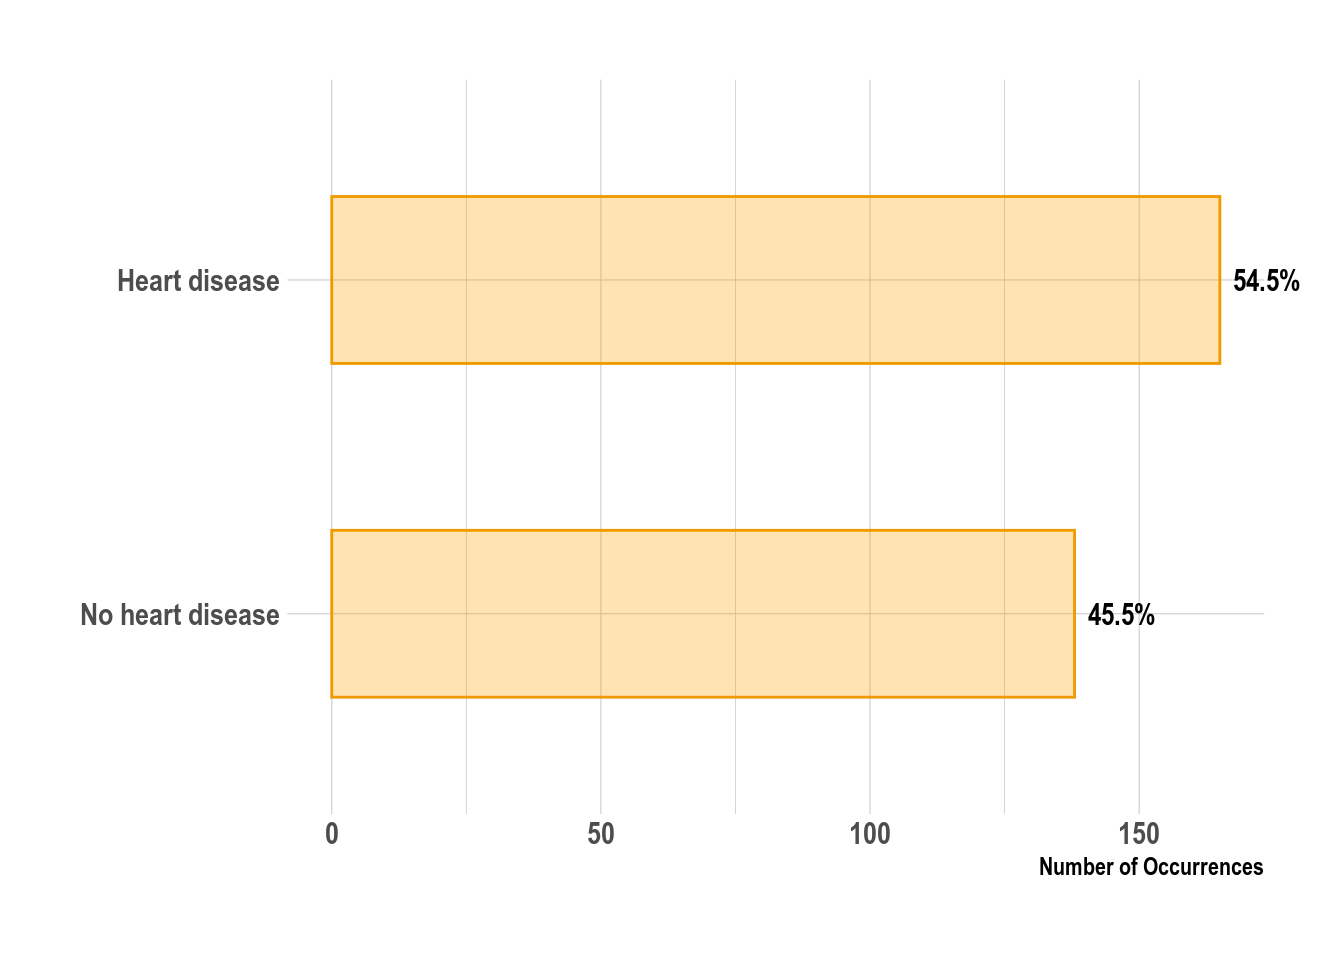
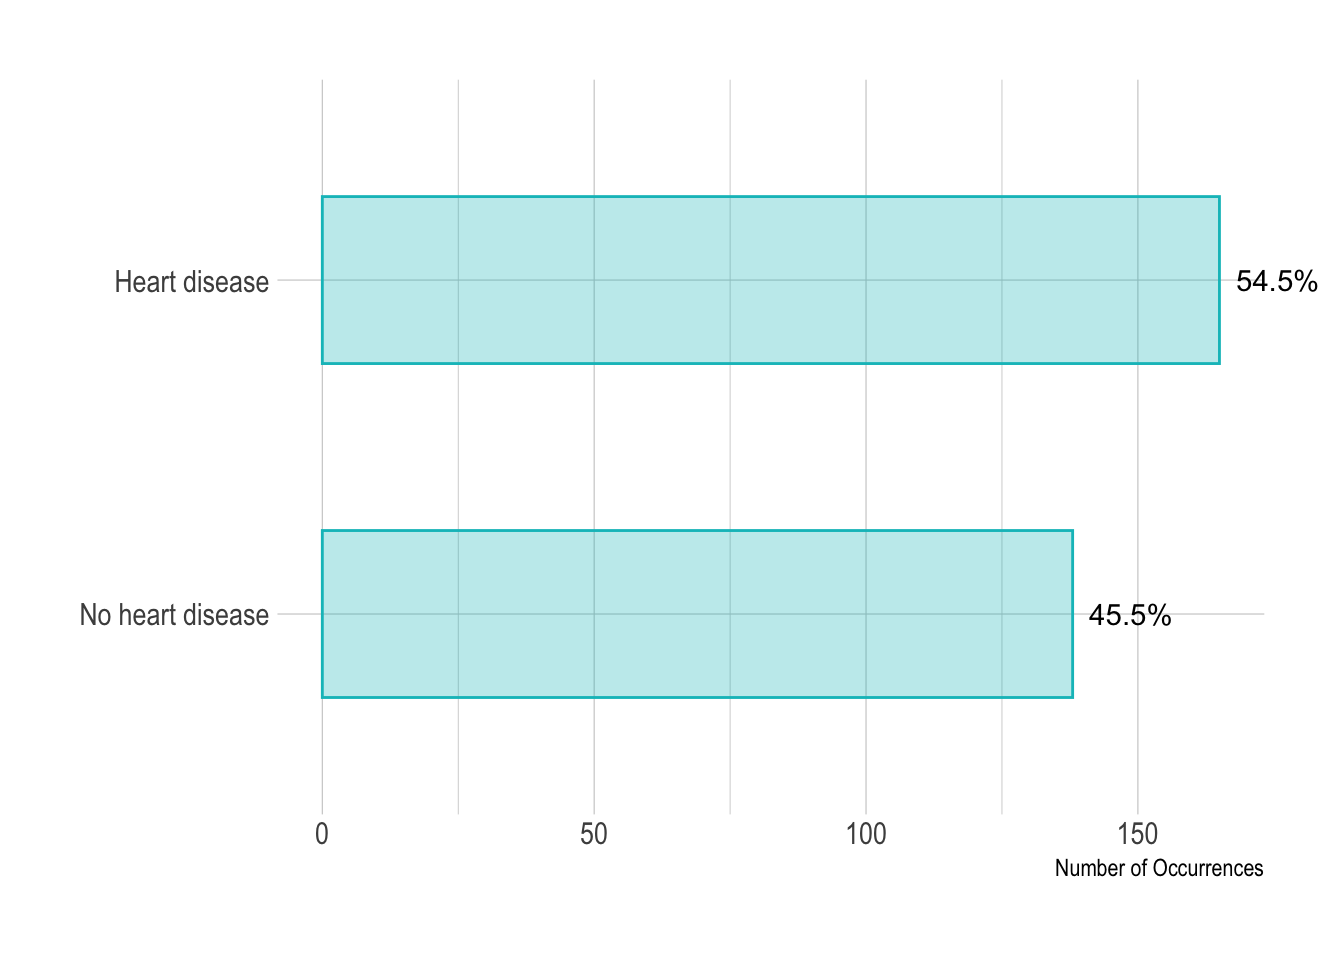
Commit.

diff --git a/README.md b/README.md
@@ -106,15 +106,14 @@ histograms <- map(
     colnames(),
   function(x){
     data %>%
-      ggplot(aes_string(x = x, y = "..density..")) + 
-      geom_histogram(colour = "orange2", fill = "white") + 
-      geom_density(colour = "orange2", fill = "orange", alpha = 0.2) + 
-      ylab("Density") + 
-      theme_ipsum() + 
-      theme(
-        axis.text.x = element_text(size = 8),
-        axis.text.y = element_text(size = 8)
-      )
+      ggplot(aes(x = !!as.name(x), y = ..density..)) + 
+      geom_histogram(colour = "#00BFC4", fill = "white") + 
+      geom_density(colour = "#00BFC4", fill = "#00BFC4", alpha = 0.2) + 
+      labs(
+        y = "Density",
+        title = x
+      ) + 
+      theme_ipsum()
   }
 )
 
@@ -122,7 +121,7 @@ histograms <- map(
 do.call(grid.arrange, histograms)
 ```
 
-<img src="README_files/figure-gfm/unnamed-chunk-4-1.png" width="672" style="display: block; margin: auto;" />
+<img src="README_files/figure-gfm/unnamed-chunk-4-1.png" width="960" style="display: block; margin: auto;" />
 
 We can see that patients in the samlple population are most likely to be
 in their late 50s, though we can also see a smaller peak in the density
@@ -161,17 +160,16 @@ box_plots <- map(
   pull(),
   function(x){
     data %>%
-      ggplot(aes_string(x = "sex", y = x, colour = "sex")) + 
+      ggplot(aes(x = sex, y = !!as.name(x), colour = sex)) + 
       geom_boxplot(alpha = 0.3, show.legend = FALSE) + 
       geom_jitter(alpha = 0.1, show.legend = FALSE) + 
       coord_flip() +
       scale_x_discrete(label = c("Female", "Male")) + 
-      xlab(NULL) + 
-      theme_ipsum() +
-      theme(
-        axis.text.x = element_text(size = 8),
-        axis.text.y = element_text(size = 8)
-      )
+      labs(
+        x = NULL,
+        title = x
+      ) +
+      theme_ipsum()
   }
 )
 
@@ -179,7 +177,7 @@ box_plots <- map(
 do.call(grid.arrange, box_plots)
 ```
 
-<img src="README_files/figure-gfm/unnamed-chunk-5-1.png" width="672" style="display: block; margin: auto;" />
+<img src="README_files/figure-gfm/unnamed-chunk-5-1.png" width="960" style="display: block; margin: auto;" />
 
 We can see from the box plots that overall there is little difference
 between male and female patients in the population. The median age of
@@ -215,10 +213,11 @@ tibble(
     }
   )
 ) %>%
-  ggplot(aes(x = var, y = corr, fill = factor(is.sig, levels = c(0,1), label = c("No", "Yes")))) +
-  geom_col() + 
+  ggplot(aes(x = var, y = corr, fill = factor(is.sig, levels = c(0,1), label = c("No", "Yes")), colour = ..fill..)) +
+  geom_col(alpha = 0.3) + 
   coord_flip() + 
   scale_fill_discrete(name = "Is significant?") + 
+  scale_color_discrete(guide = FALSE) + 
   xlab(NULL) + 
   ylab("Correlation coefficient") + 
   theme_ipsum()
@@ -251,7 +250,7 @@ data %>%
   mutate(per = str_c(round(100 * count / sum(count), 1), "%")) %>%
   ggplot(aes(x = factor(target, levels = c(0,1), label = c("No heart disease", "Heart disease")), 
              y = count, label = per)) + 
-  geom_col(colour = "orange2", fill = "orange", alpha = 0.3, width = 0.5) + 
+  geom_col(colour = "#00BFC4", fill = "#00BFC4", alpha = 0.3, width = 0.5) + 
   geom_text(hjust = -0.2) + 
   coord_flip(clip = "off") + 
   xlab(NULL) + 
@@ -278,23 +277,31 @@ cat_plots <- map(
   names(cat_vars),
   function(x){
     data %>%
-      group_by(!!as.name(x)) %>%
+      group_by(target, !!as.name(x)) %>%
       summarise(count = n()) %>%
-      mutate(per = str_c(round(100 * count / sum(count), 1), "%")) %>%
-      ggplot(aes_string(x = x, y = "count", label = "per")) + 
-      geom_col(colour = "orange2", fill = "orange", alpha = 0.3, width = 0.5) + 
-      geom_text(hjust = -0.2) + 
-      coord_flip(clip = "off") + 
-      xlab(NULL) + 
+      ggplot(aes(x = factor(target, levels = c(0,1), 
+                            label = c("No heart disease", "Heart disease")), 
+                            y = count, fill = !!as.name(x), 
+                            colour = ..fill..)) + 
+      geom_col(position = "dodge", alpha = 0.3, show.legend = FALSE) + 
+      coord_flip() + 
+      labs(
+        x = NULL,
+        title = x
+      ) +
+      ylab("Number of Occurrences") + 
       theme_ipsum()
   }
 )
 
-# print
 do.call(grid.arrange, cat_plots)
 ```
 
-<img src="README_files/figure-gfm/unnamed-chunk-8-1.png" width="672" style="display: block; margin: auto;" />
+<img src="README_files/figure-gfm/unnamed-chunk-8-1.png" width="960" style="display: block; margin: auto;" />
+
+We can see from the above that a number of the variables are quite
+unevenly distributed over their different levels. There’s a significant
+skew towards males in the population
 
 ## Training a model
 
@@ -410,11 +417,11 @@ model_log$model
     ## 
     ## No pre-processing
     ## Resampling: Cross-Validated (10 fold, repeated 5 times) 
-    ## Summary of sample sizes: 193, 192, 191, 192, 192, 191, ... 
+    ## Summary of sample sizes: 192, 191, 191, 192, 192, 192, ... 
     ## Resampling results:
     ## 
     ##   Accuracy   Kappa    
-    ##   0.8157835  0.6258402
+    ##   0.8359524  0.6687658
 
 We can see from the above results that the multiple logistic regression
 model has an accuracy of roughly 84% which is impressive for such a
